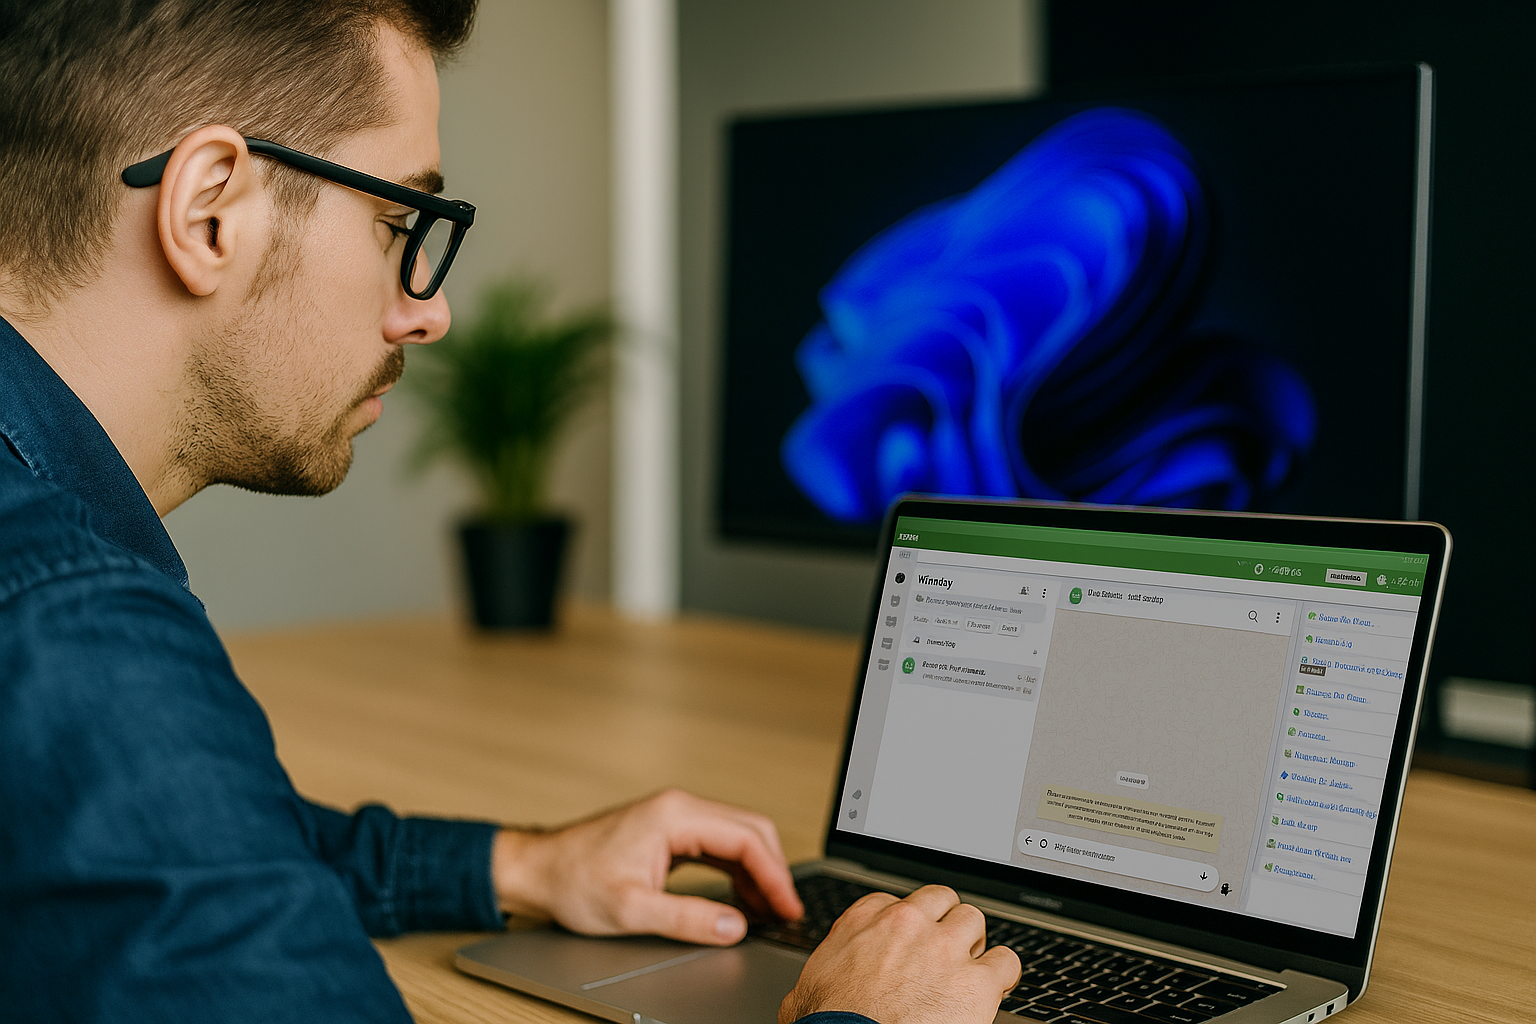
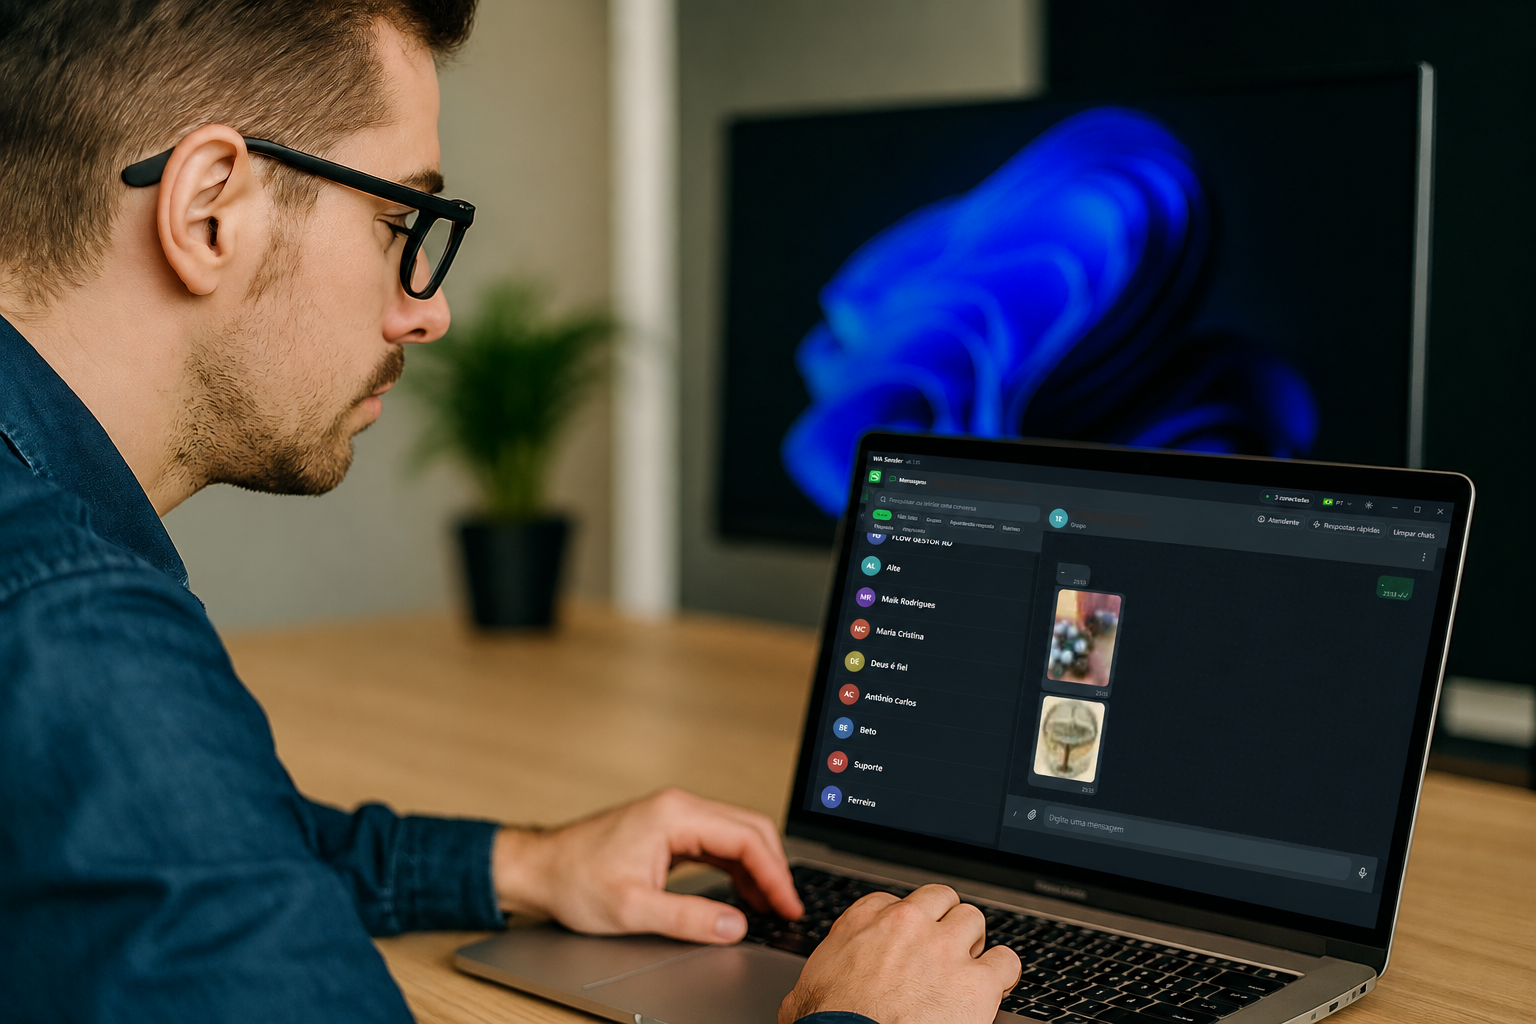
nova foto

diff --git a/index.html b/index.html
@@ -20,7 +20,7 @@
     <img src="facilitar 2,0.png" alt="">
 
     <img src="imagem dois.png" alt="">
-    <img src="imagem principal.jpg" alt="">
+    <img src="imagem principal.png" alt="">
     <img src="seusite.png" alt="">
     <img src="wacrm.png" alt="">
 
